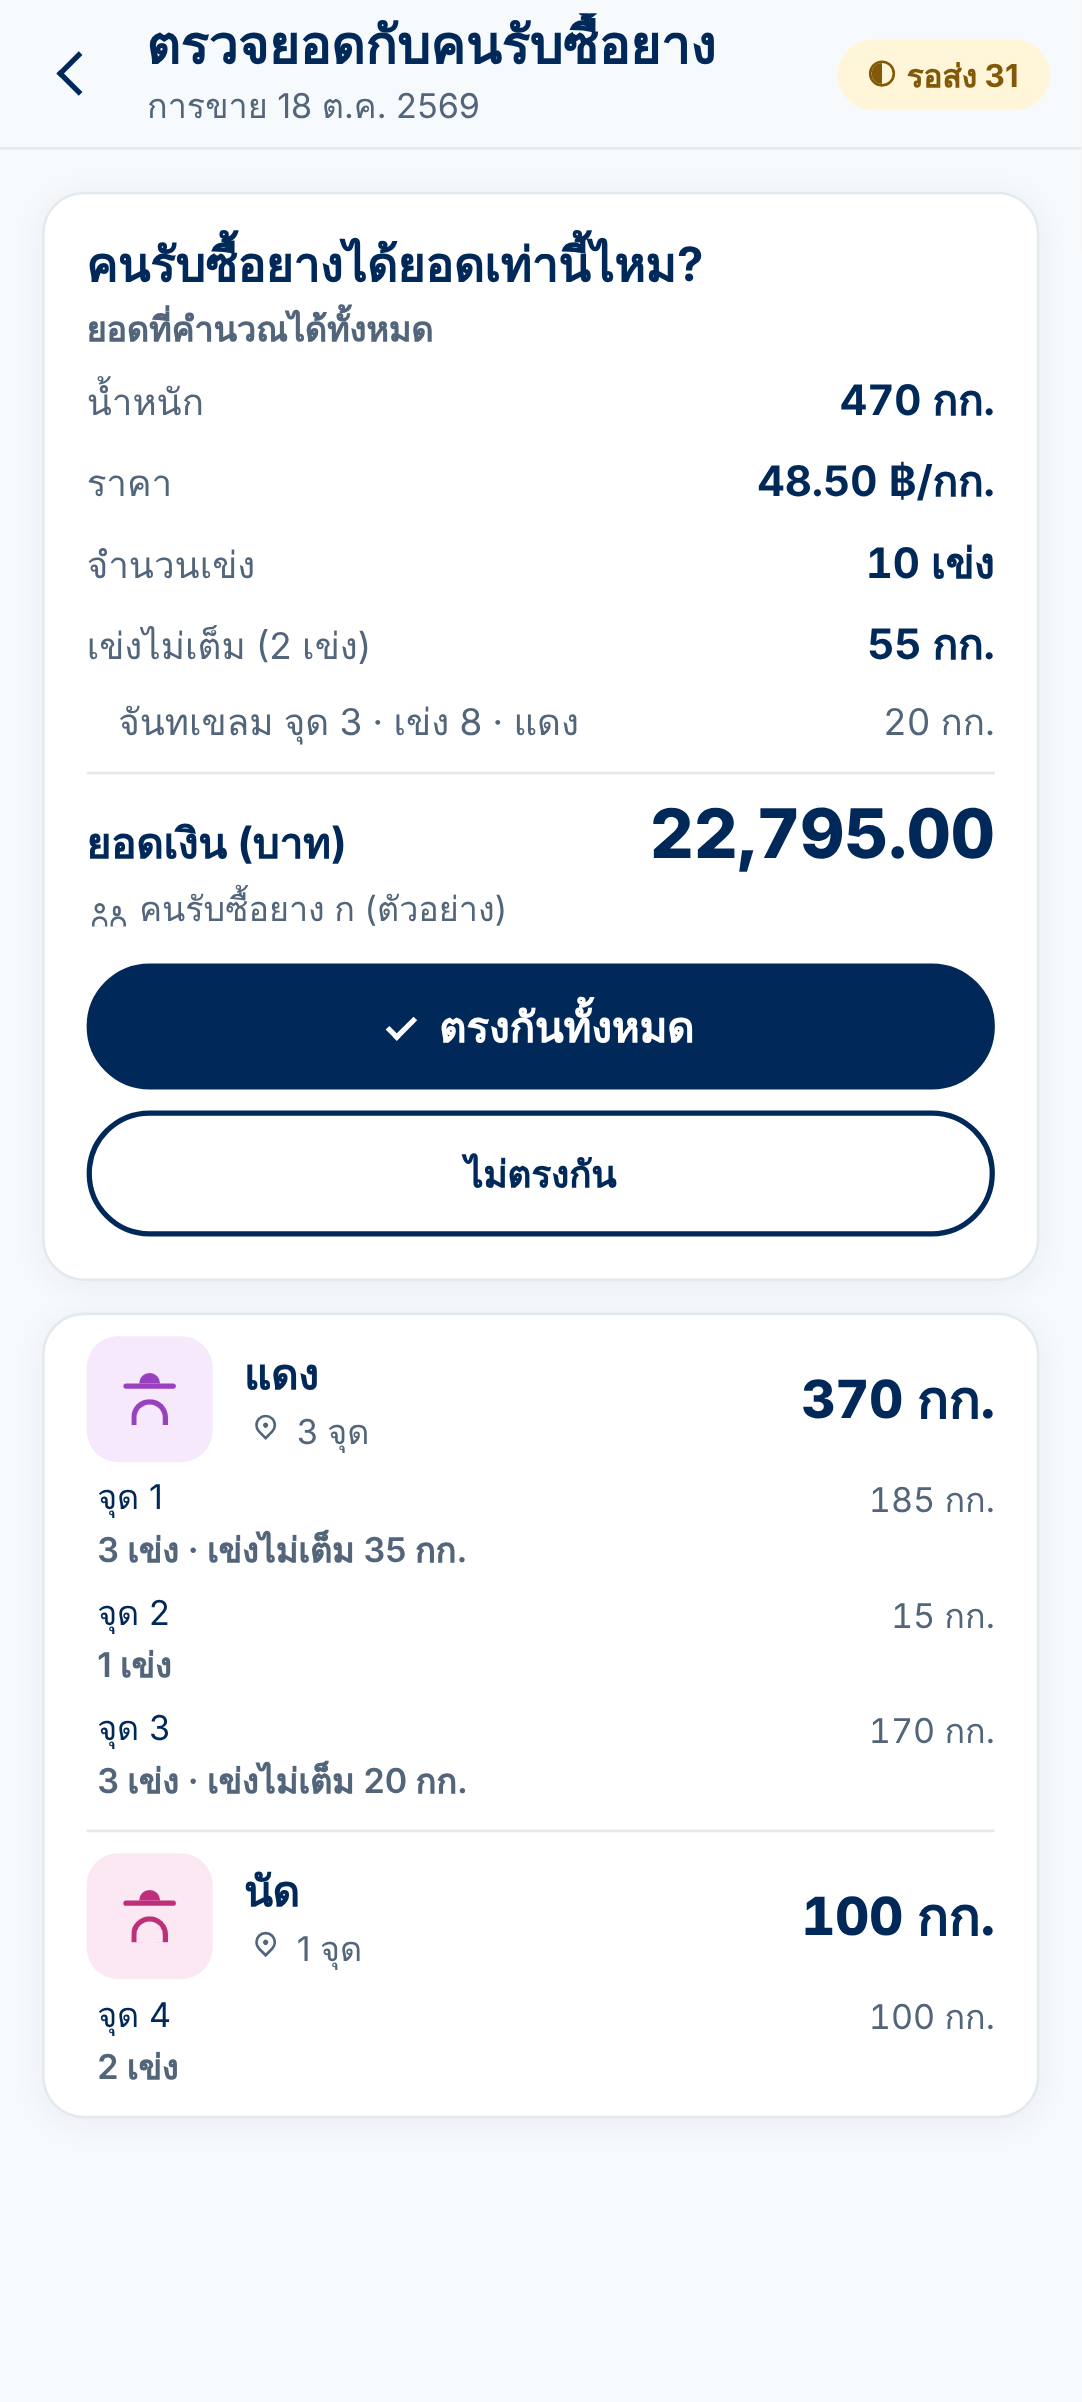
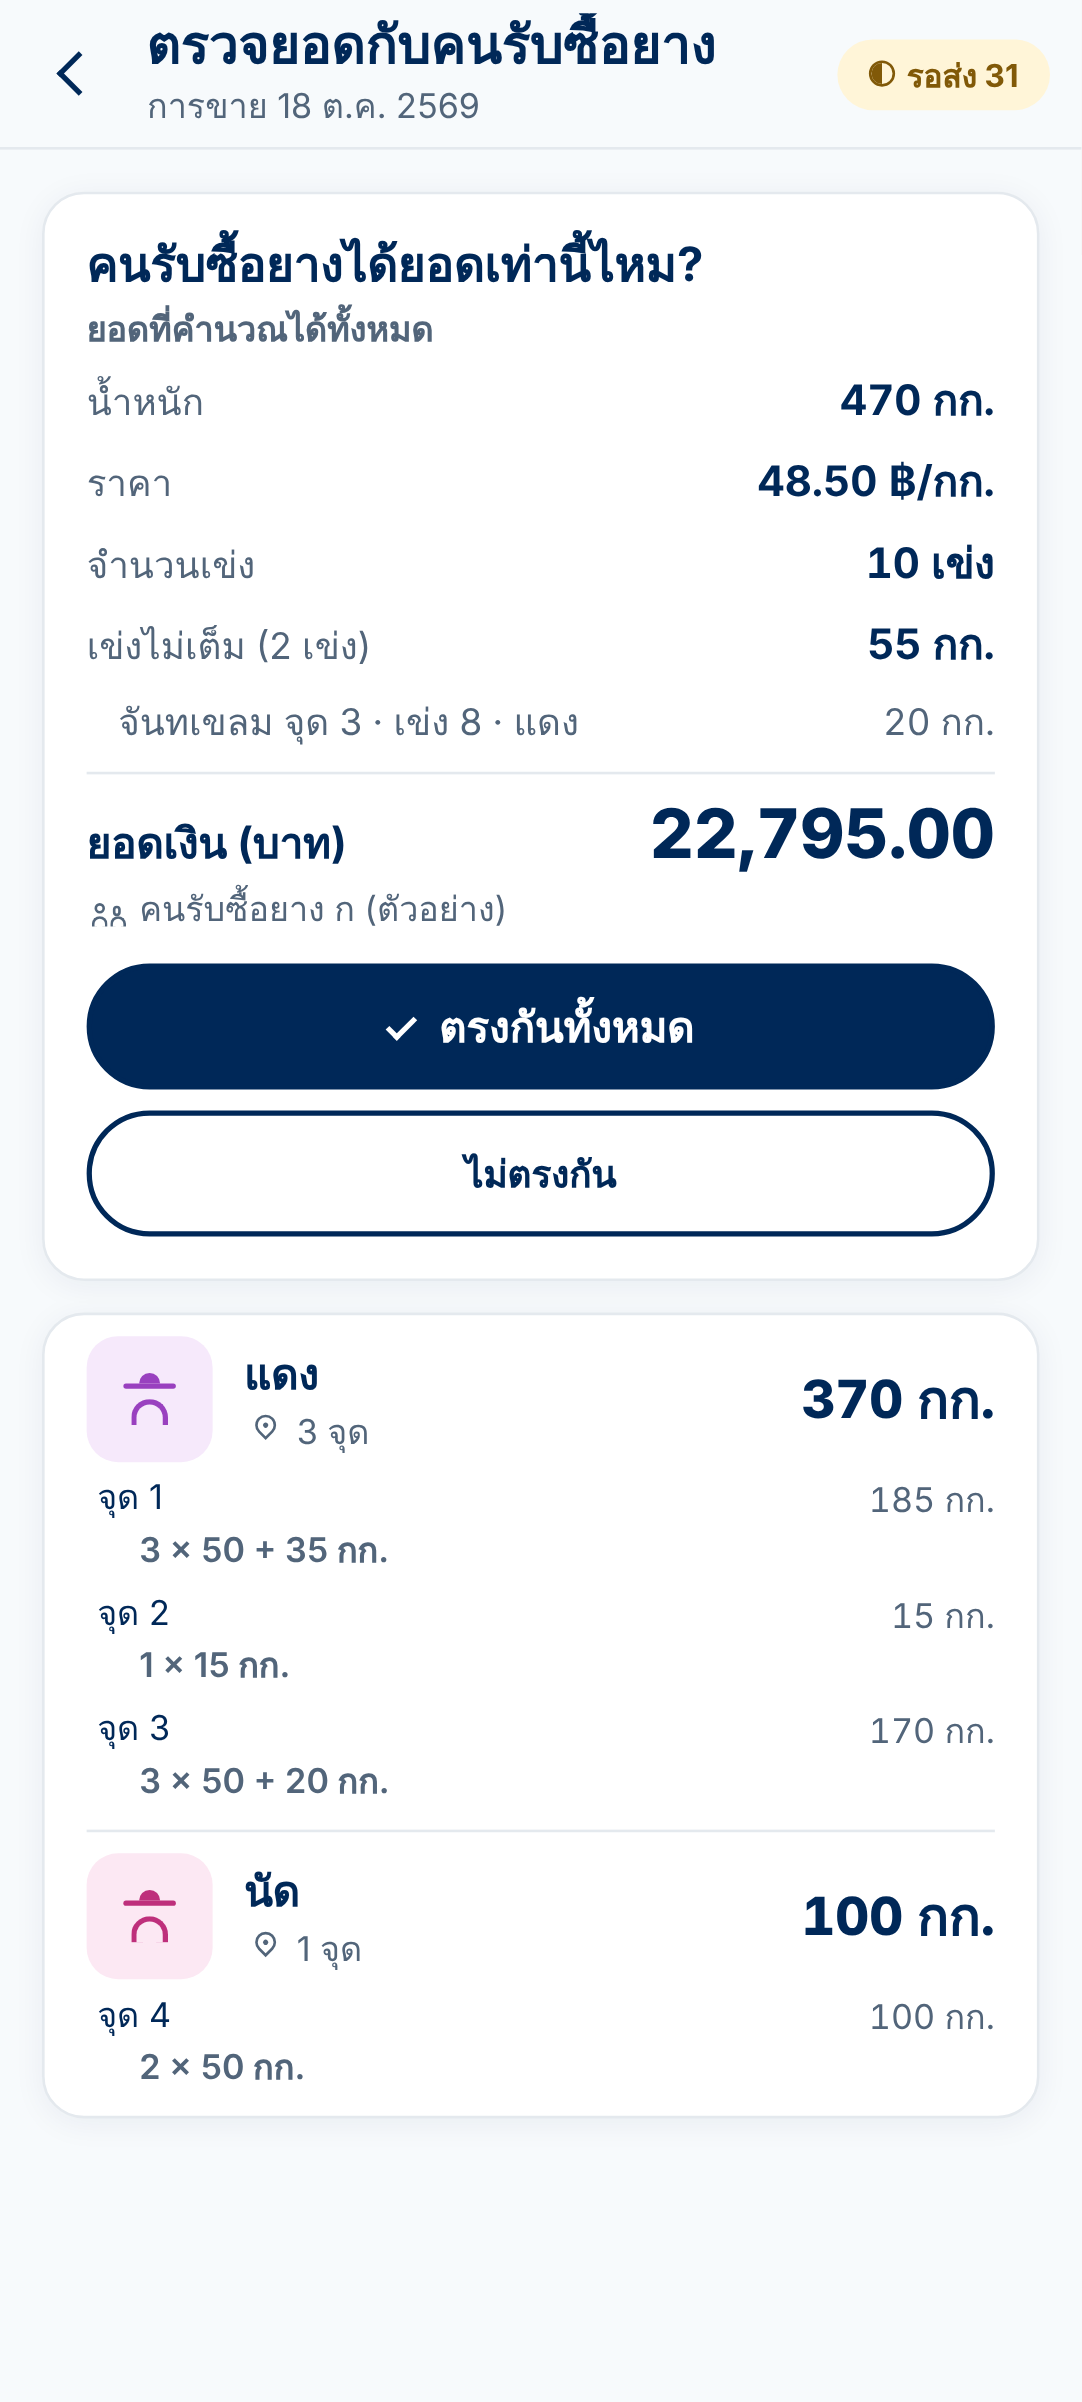
feat(settle): indent point sums, bold the total
Owner 2026-10-18: per-point line reads N x std + short kg, indented under the point name; the block's total on page 17 is bold, large and in the accept colour.

Claude-Session: https://claude.ai/code/session_016HwVoNcdebRcafYoYRKwUt

Changed region(s): [[0.0915, 0.6869, 0.427, 0.7494], [0.0915, 0.6245, 0.427, 0.6557], [0.0915, 0.843, 0.2745, 0.8743]]

diff --git a/src/v2/sale/money-screens.tsx b/src/v2/sale/money-screens.tsx
@@ -268,15 +268,17 @@ function CheckBody({ bump }: { bump: () => void }) {
                 <Big value={msg('v2f.kg', { n: kgText(z.totals.netG) })} size={20} />
               </View>
               {points.map(([pid, tot]) => {
-                const parts = [
-                  tot.standardBaskets ? msg('sales.baskets', { n: tot.standardBaskets }) : '',
-                  tot.shortBaskets ? msg('v2s.pointShort', { kg: kgText(tot.shortNetG) }) : '',
-                ].filter(Boolean);
+                // "3 × 50 + 35 กก.": full baskets × the standard basket, plus the short basket's kg.
+                const std = tot.standardBaskets ? tot.standardNetG / tot.standardBaskets : 0;
+                const sum = [
+                  tot.standardBaskets ? (Number.isInteger(std / 1000) ? `${tot.standardBaskets} × ${kgText(std)}` : kgText(tot.standardNetG)) : '',
+                  tot.shortBaskets ? kgText(tot.shortNetG) : '',
+                ].filter(Boolean).join(' + ');
                 return (
                   <View key={pid} testID={`check-point-${pid}`} style={{ flexDirection: 'row', alignItems: 'flex-start', justifyContent: 'space-between', gap: t.space.md, paddingTop: t.space.xs, paddingLeft: t.space.xs }}>
                     <View style={{ flex: 1 }}>
                       <AppText variant="bodySm" style={{ color: t.color.ink }}>{master.points.find((x) => x.id === pid)?.name ?? ''}</AppText>
-                      <AppText variant="label">{parts.join(' · ')}</AppText>
+                      <AppText variant="label" style={{ paddingLeft: t.space.lg }}>{msg('v2f.kg', { n: sum })}</AppText>
                     </View>
                     <Text style={{ fontFamily: t.font.family.sans, fontSize: t.font.size.bodySm, fontVariant: ['tabular-nums'], color: t.color.inkSoft }}>{msg('v2f.kg', { n: kgText(tot.netG) })}</Text>
                   </View>
@@ -634,7 +636,11 @@ function SettlementBody({ bump, openRounding }: { bump: () => void; openRounding
         })}
         <Kv tone="total" label={msg('v2s.sumShares')} value={baht(money.tappers.reduce((a, tp) => a + tp.shareSatang, 0))} />
         <Kv label={msg('v2s.sumFarm')} value={baht(s.ownerSatang)} />
-        <Kv label={msg('v2s.sumSale')} value={baht(s.grossSatang)} />
+        {/* The line the whole block adds up to: as strong as the top card's total, in the accept colour with a ✓ (owner 2026-10-18). */}
+        <View testID="sum-sale" style={{ flexDirection: 'row', alignItems: 'center', justifyContent: 'space-between', gap: t.space.sm, borderTopWidth: t.border.hair, borderTopColor: t.color.ruleFaint, paddingTop: t.space.sm, marginTop: t.space.xs }}>
+          <AppText style={{ flexShrink: 1, fontWeight: t.font.weight.bold, fontSize: t.font.size.bodyLg, color: t.color.accept }}>{`✓ ${msg('v2s.sumSale')}`}</AppText>
+          <Big value={baht(s.grossSatang)} size={24} tone={t.color.accept} />
+        </View>
       </View>
 
       {/* ข · debt, not the sale (owner 2026-10-14): what tappers pay the farm (↘, one colour) and what the farm

diff --git a/src/__tests__/v2-sale-money.test.tsx b/src/__tests__/v2-sale-money.test.tsx
@@ -98,8 +98,8 @@ describe('v2 sale money (pages 16–19)', () => {
     // E05-S09: unit in the label line, dots + short count per tapper, whose short basket it is.
     expect(screen.getByTestId('check-total')).not.toHaveTextContent('บาท');
     // per tapper: how many full baskets + the short kg, at which point
-    expect(screen.getByTestId(`check-point-${farm.a[3]}`)).toHaveTextContent(/1 เข่ง · เข่งไม่เต็ม 35 กก\.85 กก\./);
-    expect(screen.getByTestId(`check-point-${farm.a[0]}`)).toHaveTextContent(/3 เข่ง150 กก\./);
+    expect(screen.getByTestId(`check-point-${farm.a[3]}`)).toHaveTextContent(/1\s×\s50\s\+\s35\sกก\.85\sกก\./);
+    expect(screen.getByTestId(`check-point-${farm.a[0]}`)).toHaveTextContent(/3\s×\s50\sกก\.150\sกก\./);
     expect(screen.getByTestId('check-card')).toHaveTextContent(/เข่ง 2 · นัด/);
     await doubleTap('check-match');
     expect(screen.getByTestId('check-status').props.accessibilityLabel).toBe('ยอดผู้ขายและคนรับซื้อยางตรงกัน');

diff --git a/src/i18n/messages.ts b/src/i18n/messages.ts
@@ -1581,7 +1581,6 @@ const th = {
   'v2s.shortCount': 'เข่งไม่เต็ม ({n} เข่ง)',
   'v2s.shortAt': '{place} · เข่ง {n}',
   'v2s.shortAtBy': '{place} · เข่ง {n} · {name}',
-  'v2s.pointShort': 'เข่งไม่เต็ม {kg} กก.',
   'v2s.saleTotal': 'ยอดเงิน',
   'v2s.bahtUnit': 'บาท',
   'v2s.matched': 'ยอดผู้ขายและคนรับซื้อยางตรงกัน',
@@ -3290,7 +3289,6 @@ const en: Partial<Record<keyof typeof th, string>> = {
   'v2s.shortCount': 'short baskets ({n})',
   'v2s.shortAt': '{place} · basket {n}',
   'v2s.shortAtBy': '{place} · basket {n} · {name}',
-  'v2s.pointShort': 'short basket {kg} kg',
   'v2s.saleTotal': 'total',
   'v2s.bahtUnit': 'baht',
   'v2s.matched': 'seller and buyer figures match',
